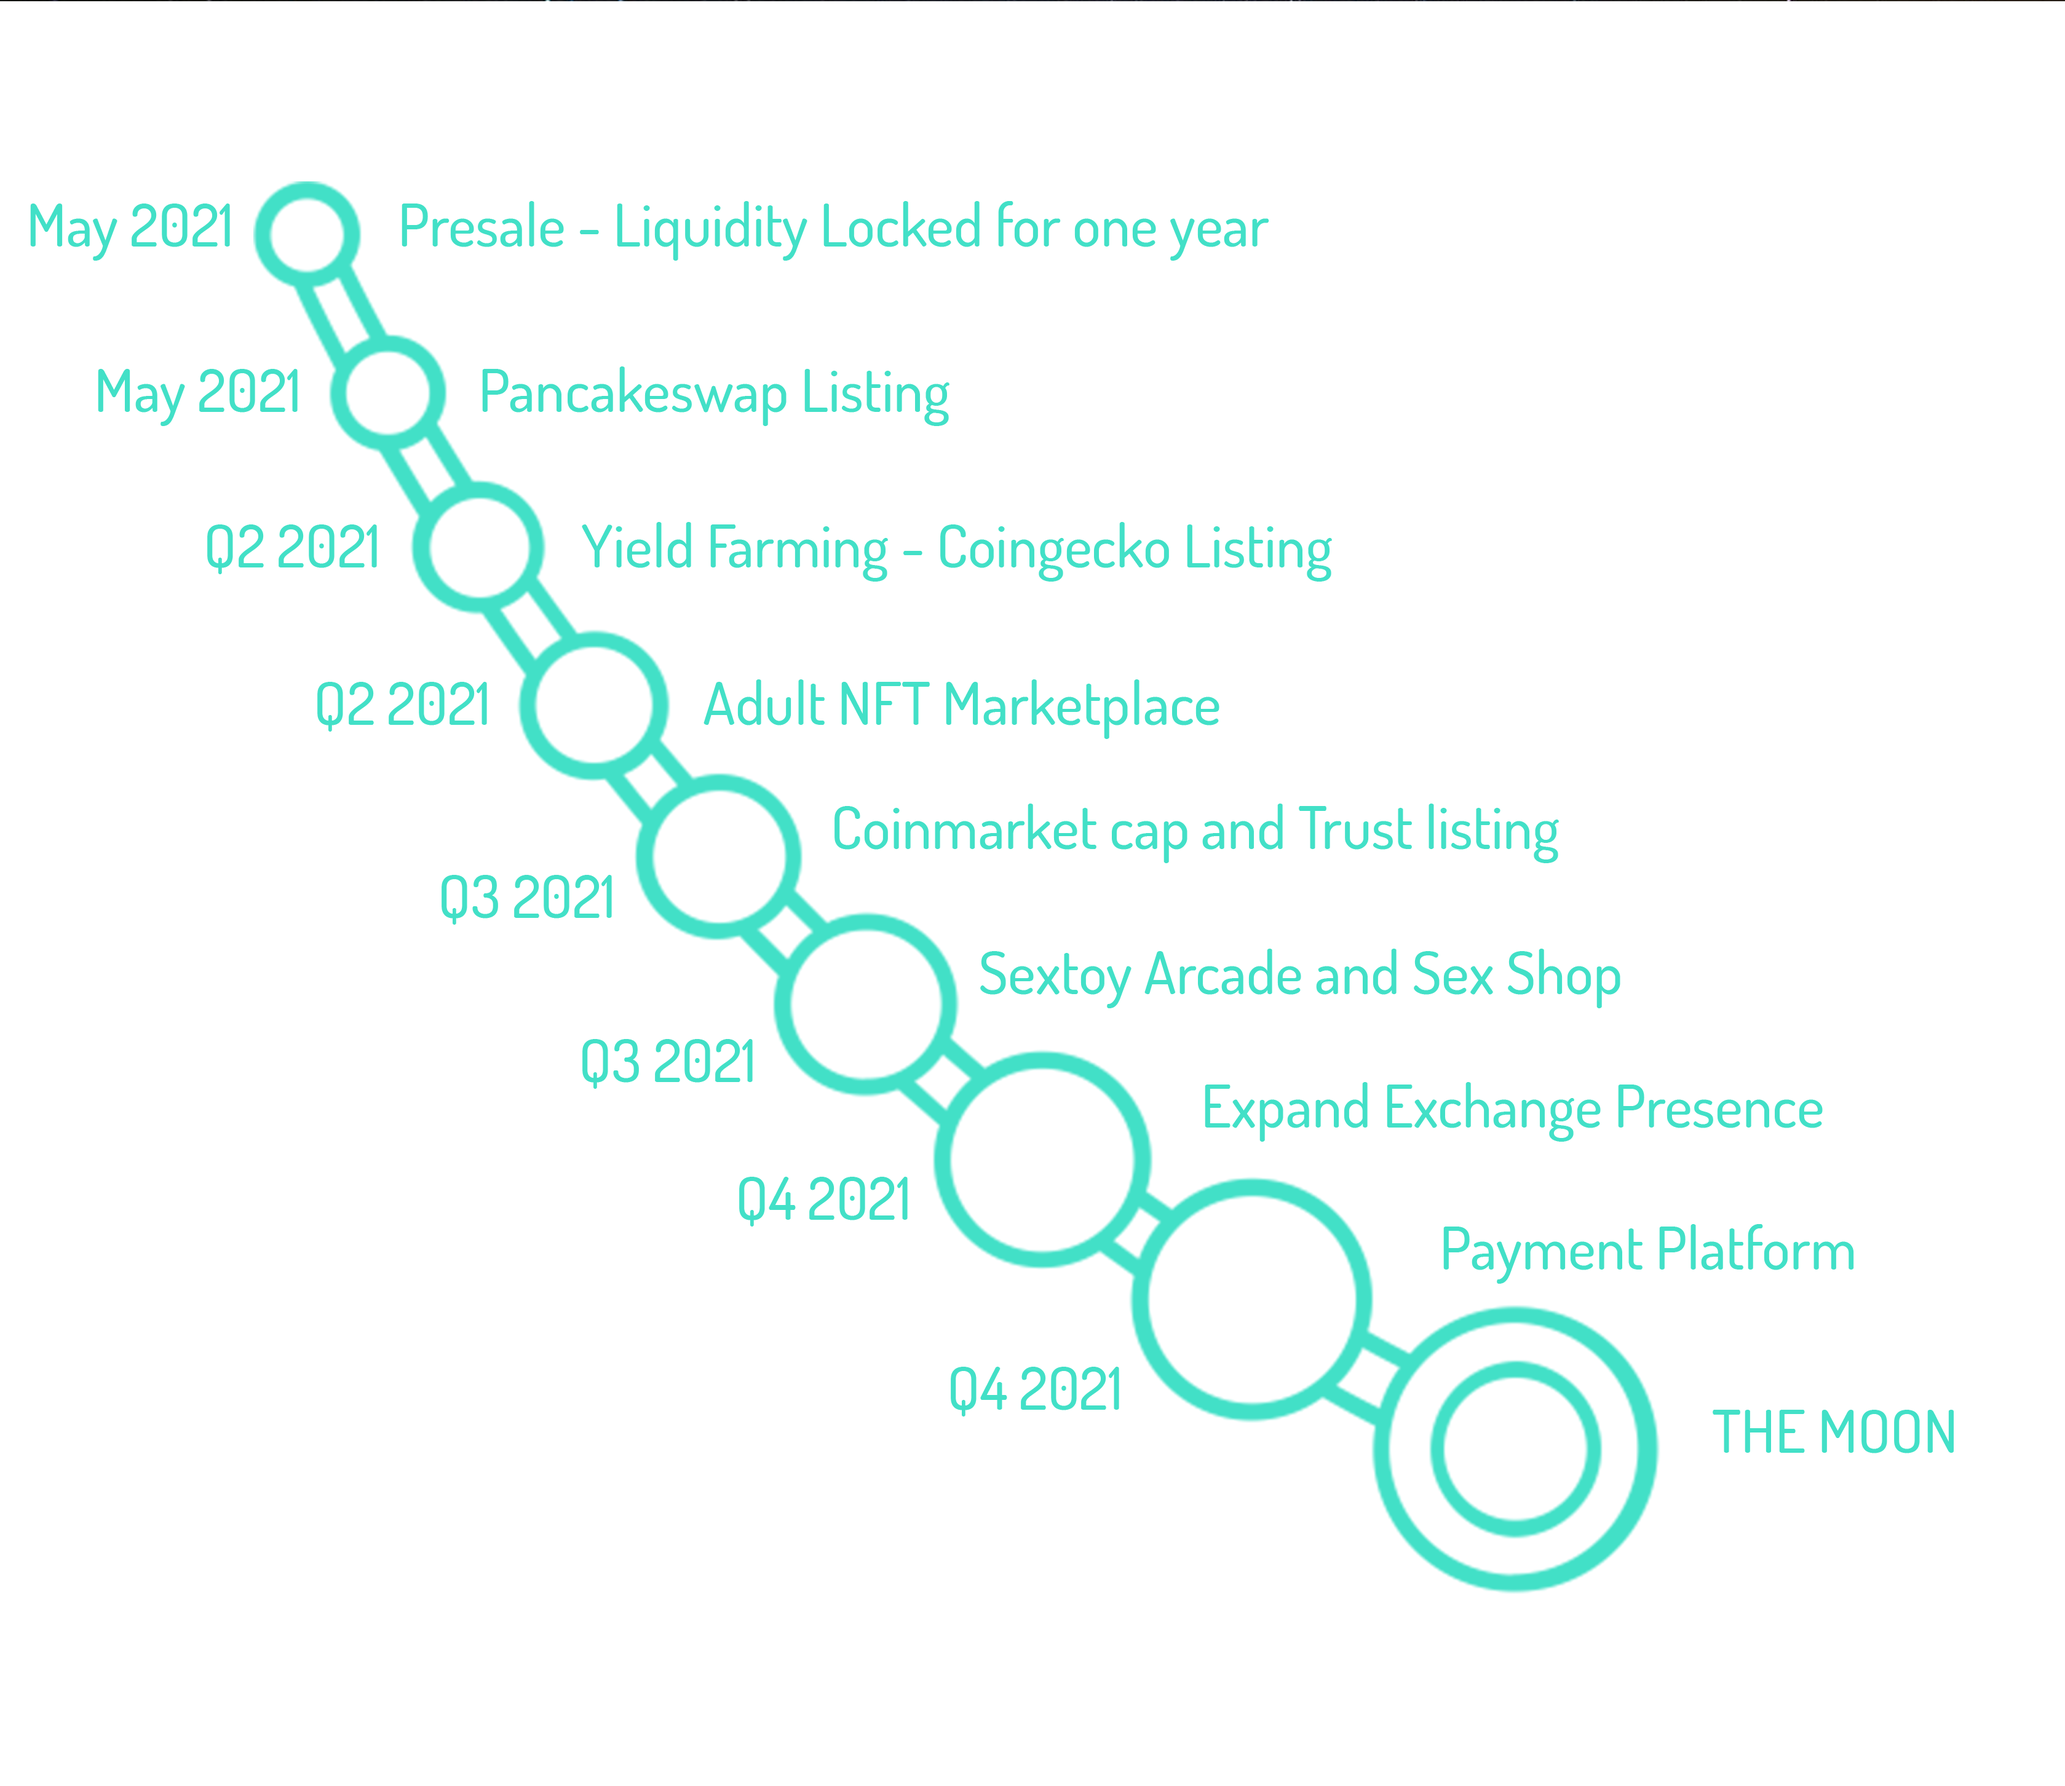
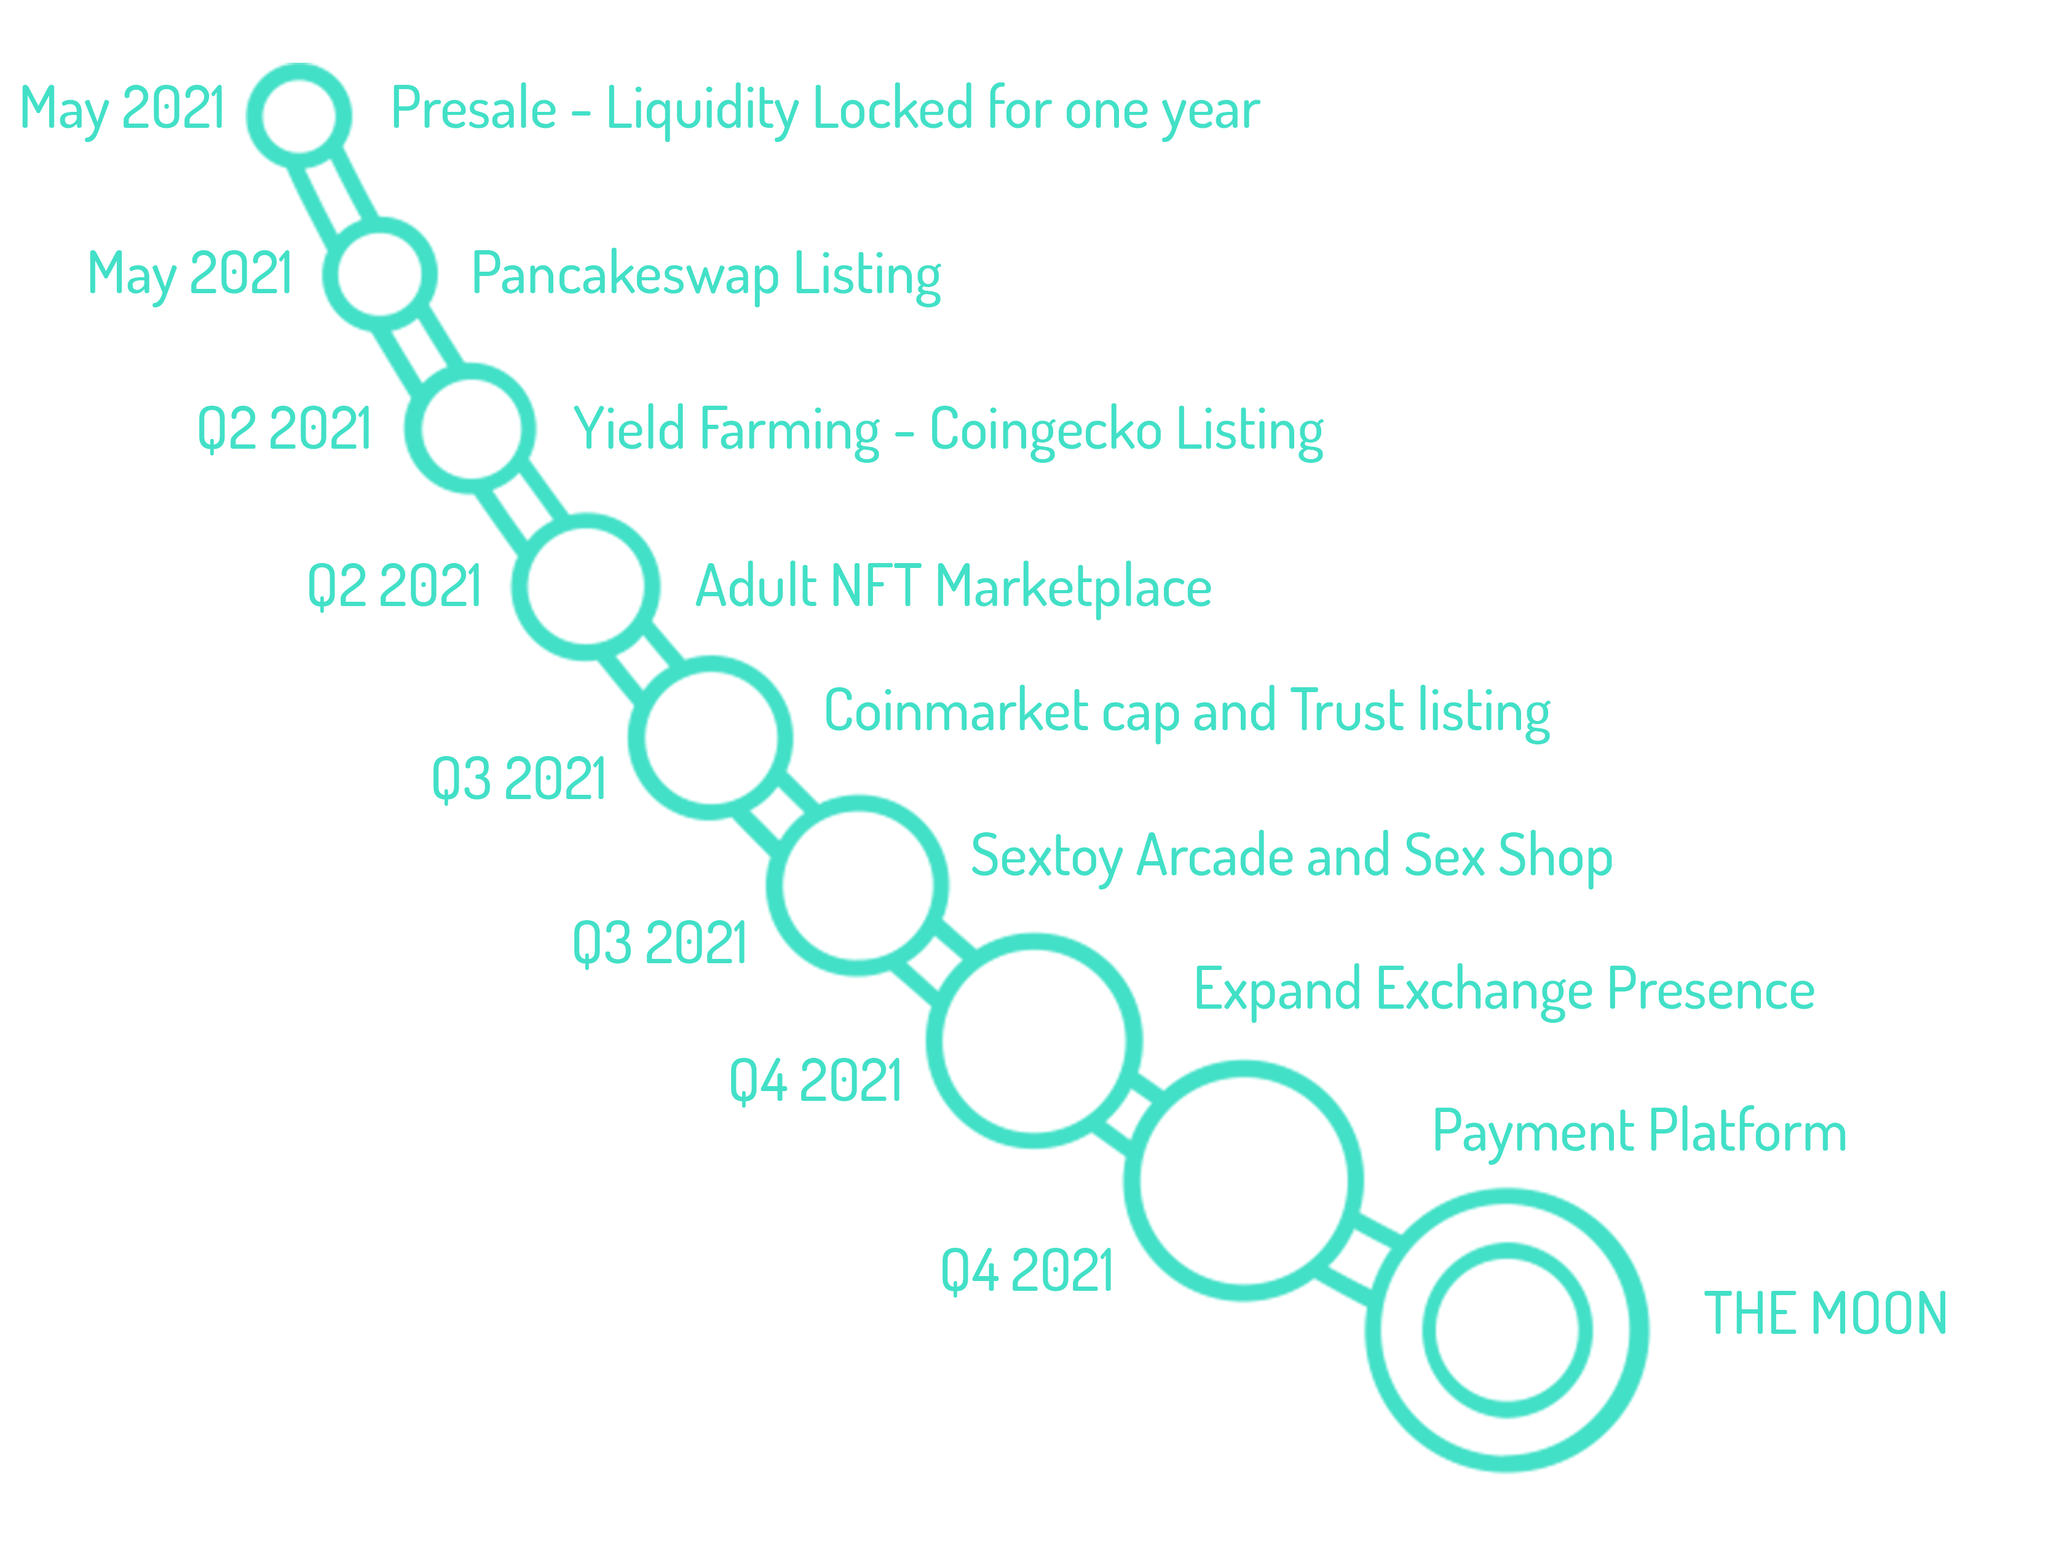
i didit

Changed region(s): [[0.0, 0.0312, 0.9019, 0.9668], [0.8397, 0.7797, 0.9641, 0.8733]]

diff --git a/next/styles/fourthpage.module.css b/next/styles/fourthpage.module.css
@@ -1,0 +1,38 @@
+/* .container {
+  min-height: 100vh;
+  padding: 0 0.5rem;
+  display: flex;
+  flex-direction: column;
+  justify-content: center;
+  align-items: center;
+  height: 100vh;
+}
+
+.main {
+  flex: 1;
+  display: flex;
+}
+
+.logoContainer {
+  height: 80%;
+  width: 80%;
+} */
+
+
+
+.fourth-page{
+  background-image: url(../public//images/bg4_edit.png);
+  background-repeat: no-repeat;
+  background-size: cover;
+}
+
+.p4-foreground{
+  background-image: url(../public//images/beads_words.png);
+  background-repeat: no-repeat;
+  background-size: contain;
+}
+
+.alignVertical{
+
+max-height:80px;
+}

diff --git a/next/pages/roadmap.js b/next/pages/roadmap.js
@@ -4,11 +4,9 @@ const Home = () => {
 
   return (
     <div className="fourth-page" >
-
-      <div>
+      <div className="p4-foreground" >
         <img src="/images/beads_words.png" />
       </div>
-
 
     </div >
   )

diff --git a/next/styles/Roadmap.module.css b/next/styles/Roadmap.module.css
@@ -5,7 +5,9 @@
 }
 
 .p4-foreground{
-  background-image: url(../public//images/bg4_edit.png);
-  background-repeat: no-repeat;
-  background-size: contain;
+  margin: auto;
+  width: 65%;
+  
+  padding: 10px;
 }
+
